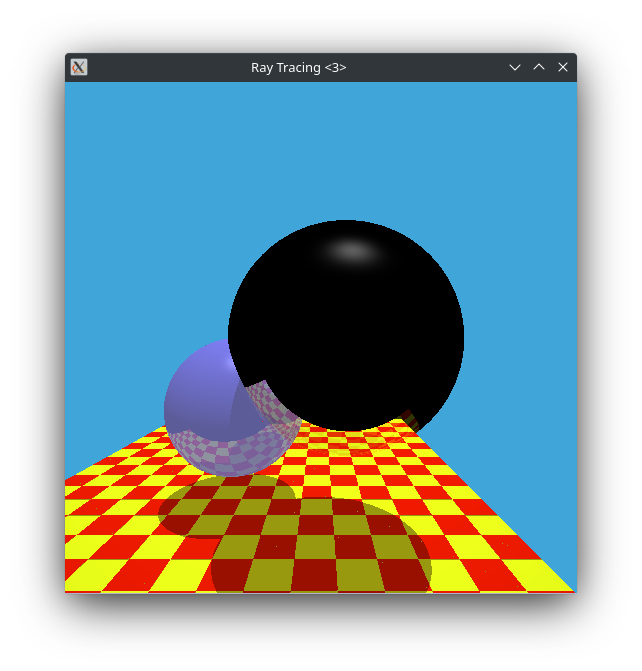
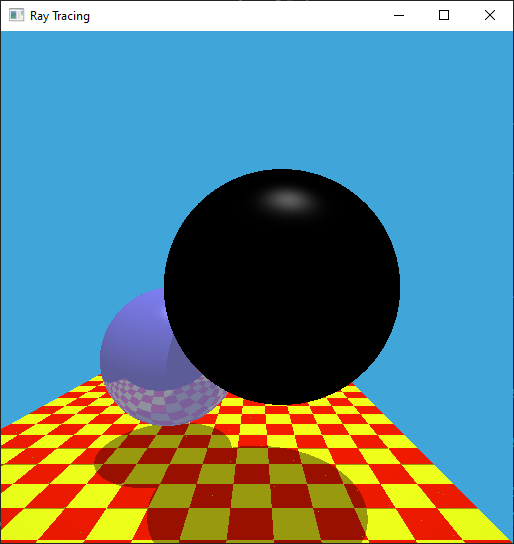
done done done

diff --git a/src/raytracer.cpp b/src/raytracer.cpp
@@ -195,11 +195,11 @@ std::pair<bool, colour3> trace(const point3& from, const point3& to, Object* exc
     {
 
         auto test = 1 - pow((1/best->material.refraction), 2) * (1 - pow(glm::dot(best_intersection - from, best_normal), 2));
-        if (best->material.refraction != 0.0f && test >= 0.0f)
+        if (best->material.refraction != 0.0f && test < 0.0f)
         {
             if (pick)
             {
-                std::cout << "full reflection instead of refraction" << std::endl;
+                std::cout << "total internal reflection" << std::endl;
             }
             out_colour += std::get<1>(reflection);
             do_refraction = false;

diff --git a/README.md b/README.md
@@ -16,10 +16,10 @@ The rests are dependencies.
 - Ambient, point, directional, and spot lights.
 - Shadow testing. (Have bug)
 - Mirror reflection and transparency
+- 2 extra scene
 ### Partially Completed
 - refraction and total internal reflection (very buggy)
-### Not Implemented
-- 2 extra scene
+
 
 
 ## Build instructions
@@ -40,20 +40,24 @@ cd ../
 ```
 
 ### OpenMP Acceleration
-OpenMP acceleration can be turned off by passing `-DOPENMP=OFF` to CMake.
+Optional OpenMP acceleration can be turned off by passing `-DOPENMP=OFF` to CMake.
 It may cause render artifacts.
 
 ### Windows Specific
 - The dependencies have been upgraded to 64-bit
 - Make sure the startup project is assigned to a project other `ALL_BUILD` and `ZERO_CHECK`.
+- Release build configuration can significantly speed up render speed.
 
 ### macOS Specific
 CMake cannot set the working directory for Xcode debugging. To manually set the working directory for debugging, go to `Product` -> `Scheme` -> `Edit Scheme`, under `Options` tab, tick `Use custom working directory` and set it to where the GLSL shaders are.
 
-## Linux/Unix Specific
+### Linux/Unix Specific
 OpenGL related libraries are to be installed via package manager first.
 
 For Ubuntu, the following packages need to be installed:
 ```
 libglu1-mesa-dev freeglut3-dev mesa-common-dev libglew-dev
 ```
+
+`libomp` only works with LLVM Clang toolchain instead of commonly used gcc toolchain.
+`libomp` support OpenMP version 5 while gcc implementation `libgomp` supports up to OpenMP version 4.5.
